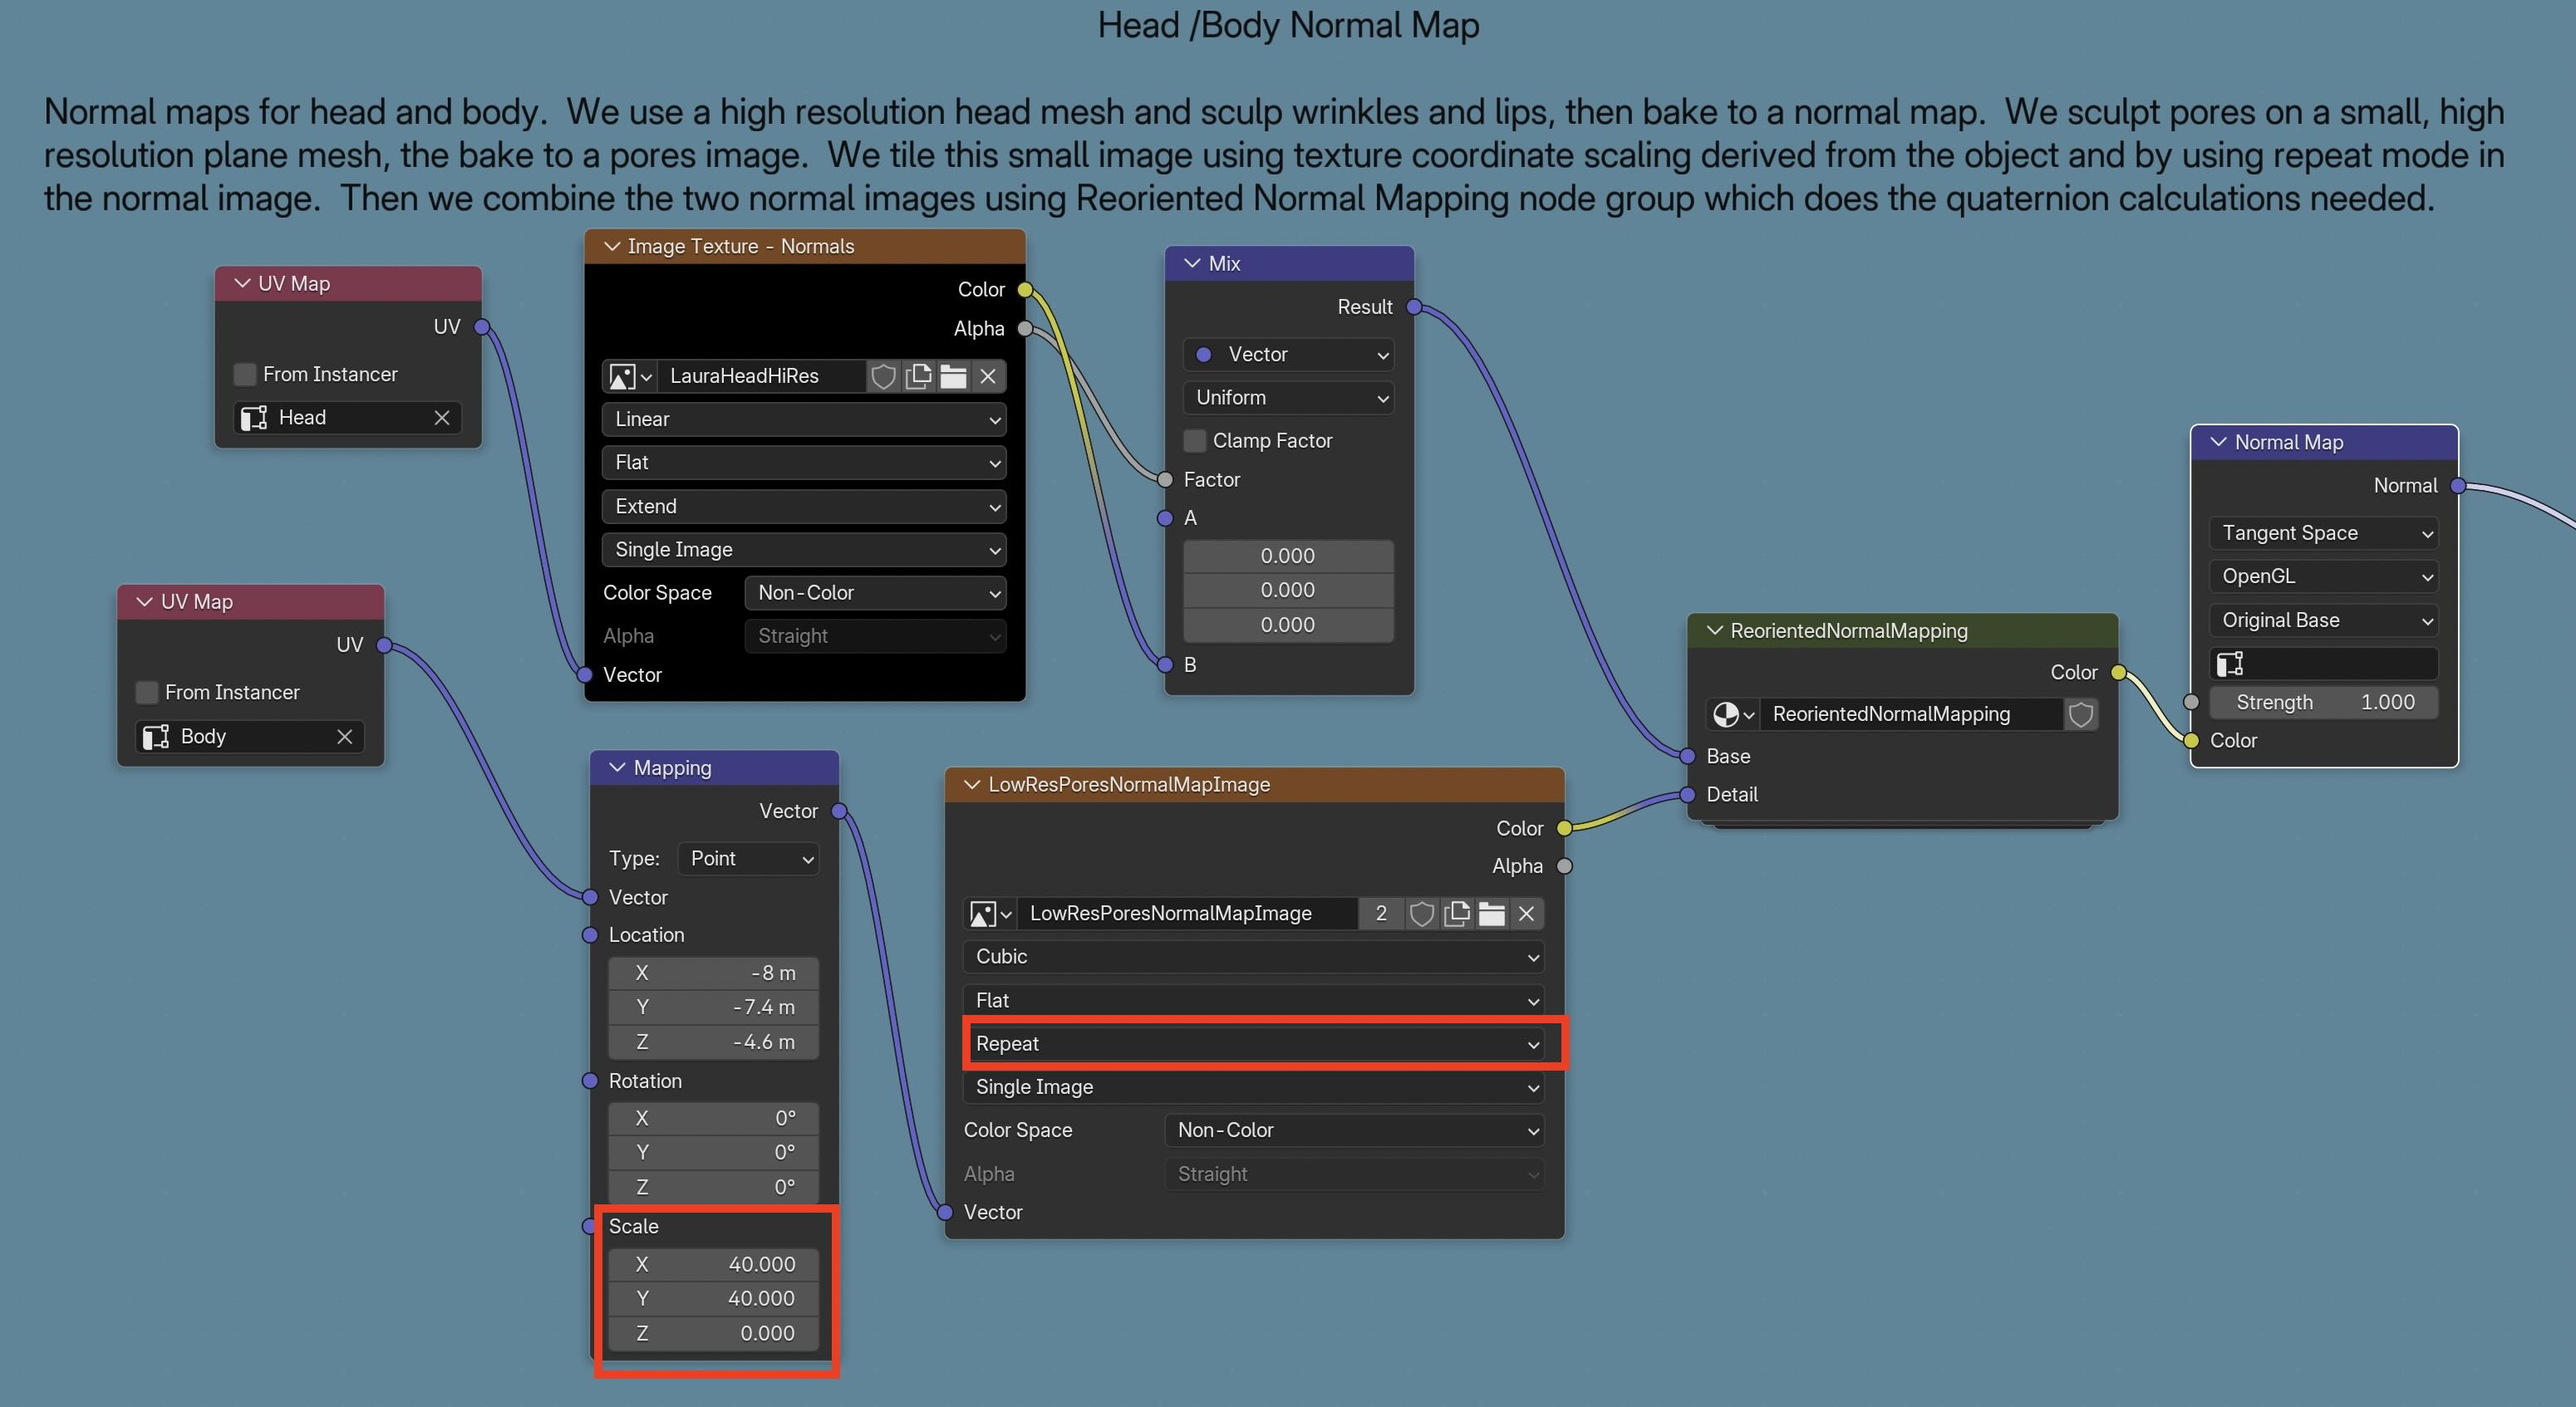
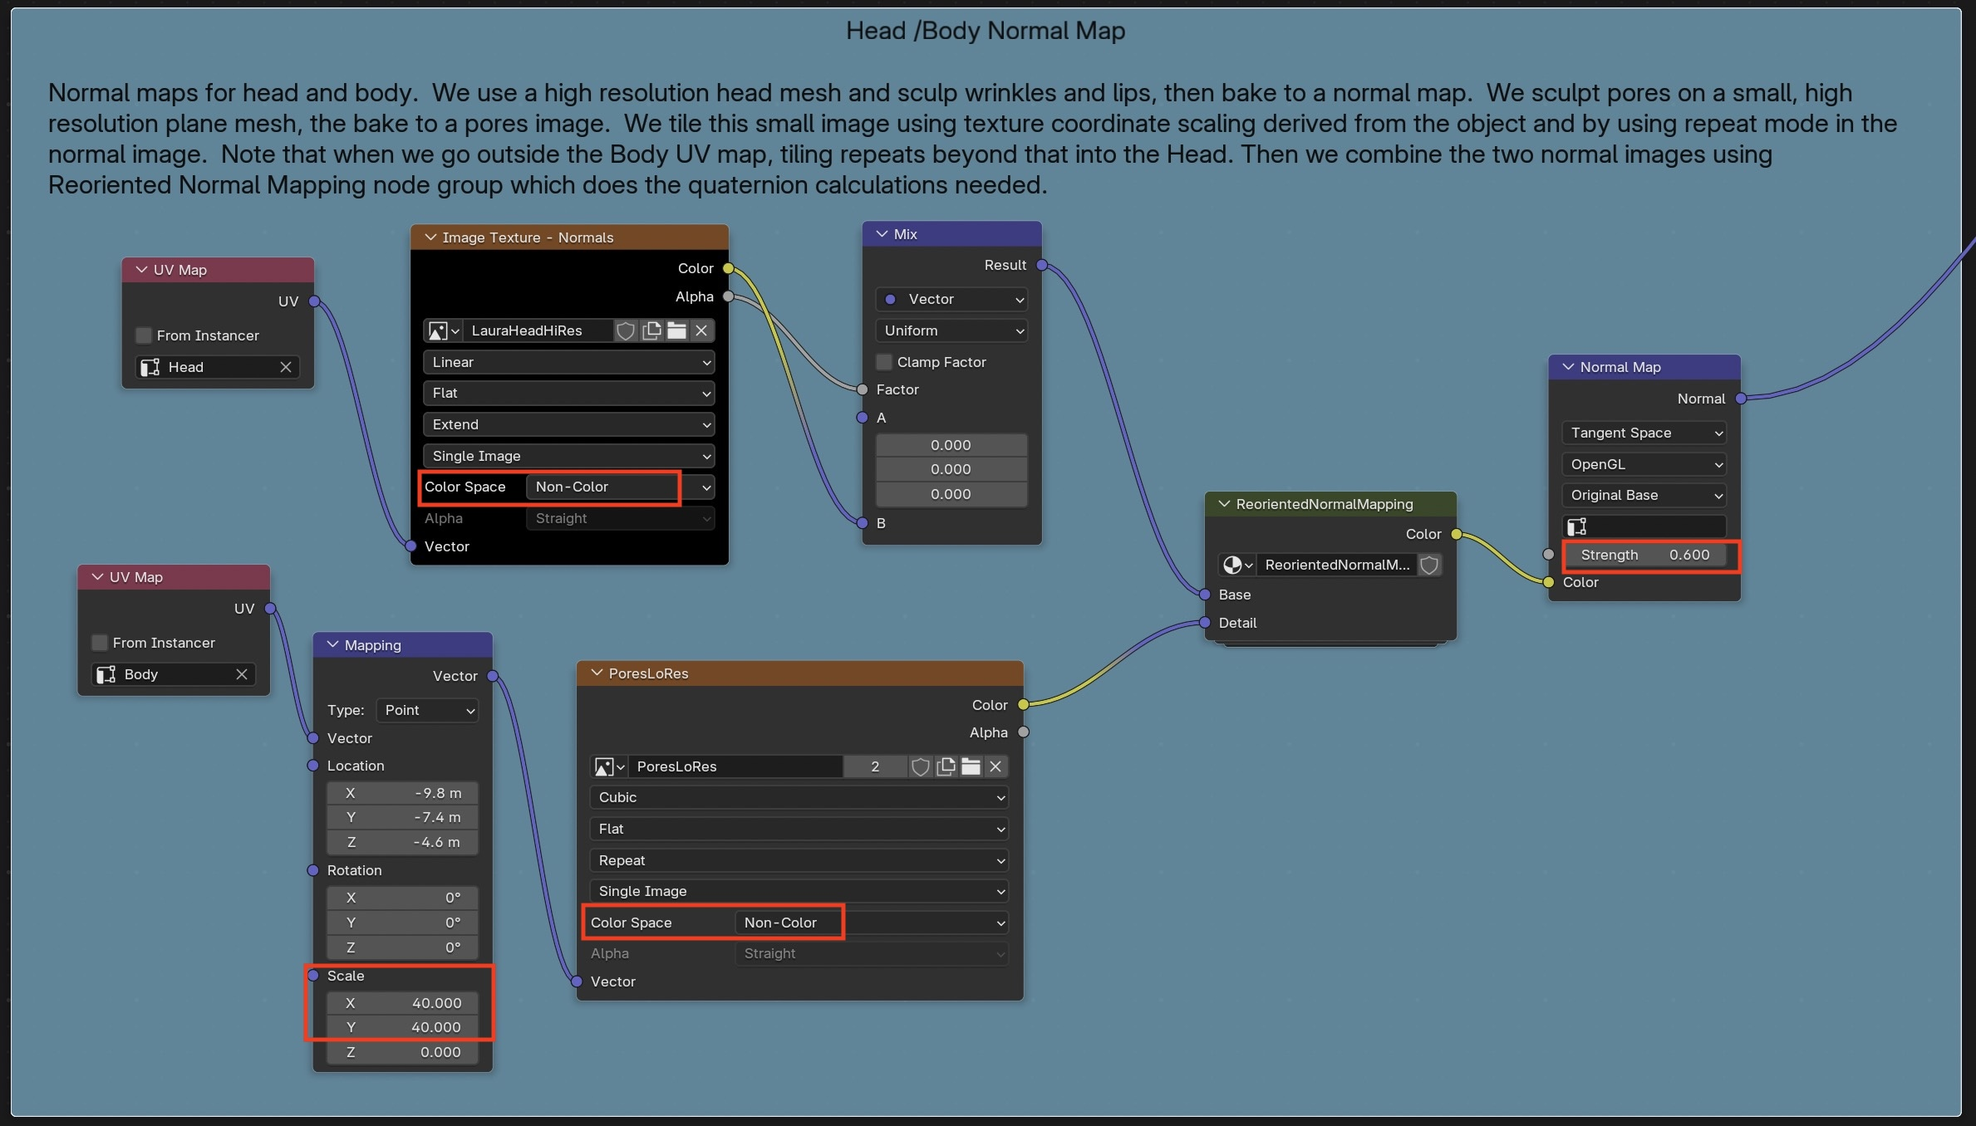
Sculpting and normal mapping for pores in Blender

diff --git a/Art/BlenderWorkedExamples.html b/Art/BlenderWorkedExamples.html
@@ -1951,32 +1951,57 @@
                     Instead we do this:
 
                     <ul>
-                        <li>Create a small mesh plane with high resolution.</li>
-                        <li>Sculpt human skin pores, which are about are about $250\mu \: \text{to} \: 500\mu$, or 0.25mm to 0.5mm diameter, on a plane.  The mesh should be a square 
-                            width = height = 1cm = 100 pixels.  Each pixel will then be 0.1 mm wide;  sufficient for the Nyquist sampling theorm.</li>
-                        <li>Bake to a normal map image.</li>
+                        <li>
+                            Create a small mesh plane with high resolution.
+                            <img class="centeredsmallest" alt="X" src="Images/MeshPlane1cm.jpg">
+                        </li>
+                        <li>
+                            Human skin pores are about are about $250\mu \: \text{to} \: 500\mu$, or 0.25mm to 0.5mm diameter, on a plane.  The mesh should be a square 
+                            width = height = 1cm = 100 pixels.  Each pixel will then be 0.1 mm wide;  sufficient for the Nyquist sampling theorm.  Go into 
+                            <em class="hotkey">Edit Mode &#10148; Control -E &#10148; subdivide &#10148; Number of cuts = 100</em>
+                            <img class="centeredsmallest" alt="X" src="Images/SubdivideMesh_EditMode_CtrlE_NumberOfCuts100.jpg">
+                            <img class="centeredsmallest" alt="X" src="Images/SubdividedMesh.jpg">
+                        </li>
+                        <li>
+                        Sculpt pores on the high res mesh (dark blue).  The low res target mesh for normal map baking is the top light blue plane, which has no subdivisions.       
+                        You can measure the distance between hires and lowres meshes to set your bake settings for extrusion and max ray distance.
+                        </li>
+                        <li>
+                            <img class="centeredsmaller" alt="X" src="Images/SculptedHiResPoresOntoLowResMesh.jpg">
+                            Here are my brush settings.
+                            Use xy tiling and tile offset settings to make left/right and top/bottom edges periodic to avoid seams.  
+                            Tinker with the noise texture settings.  I do two low strength brush passes for better uniformity.
+                            <img class="centeredsmallest" alt="X" src="Images/SculpingNoiseBrush.jpg">
+                            <img class="centeredsmallest" alt="X" src="Images/SculptingNoiseBrushSettings1.jpg">
+                            <img class="centeredsmallest" alt="X" src="Images/SculptingNoiseBrushSettings2.jpg">
+                        </li>
+                        <li>
+                            Bake to a normal map image.
+                            <img class="centeredsmallest" alt="X" src="Images/BakingPores.jpg">
+                            <img class="centeredsmallest" alt="X" src="Images/PoresNormalImage.jpg">
+                        </li>
                         <li>Use generated coordinates mapping and image repeating to tile copies of this small normal image over the entire object.  Make sure pores are
                             positioned randomly enough at the edges, or periodically continued across the x and y directions, so tiling won't show seams.
                             We use a body UV map.  Since we tile the image, the UV coordinates extend beyond the body into the head.
                         </li>
                         <li>
-                        Combine the skin pore normal map with the hi res head normal map for the head.  To combine we use the
-                        <a href="#RNM">Reoriented Normal Mapping</a>
-                        technique.
+                            Combine the skin pore normal map with the hi res head normal map for the head.  To combine we use the
+                            <a href="#RNM">Reoriented Normal Mapping</a> technique.
                         </li>
                         <li>
-                        Apply the skin pore normal map over the entire body.
+                            Apply the skin pore normal map over the entire body.
                         </li>
                     </ul>
                     </p>
 
                     <p>
-                    Here is the normal map node group: 
-                    <img class="centered" alt="X" src="Images/SkinPoresCombined.jpeg">
+                    Here is the normal map node group.  
+                    <img class="centered" alt="X" src="Images/SkinPoresCombined.jpeg"
                     </p>
 
                     <p>
-                    The skin pores are scaled until they measure the correct diameter.
+                    Skin pores are scaled until they measure the correct diameter on the object using the measuring tool.
+                    Adjust the Normal Map strength just barely enough to see pores.
                     <img class="centeredsmaller" alt="X" src="Images/SkinPoresNormalRenderEevee.jpg">
                     </p>
 
@@ -4497,7 +4522,7 @@ Select the <em class="hotkey">density brush</em>,
                     Copyright &copy; 1986-2026 by Sean Erik O'Connor.
                     All Rights Reserved.
                     &nbsp;&nbsp;&nbsp;
-                    last updated 10 Aug 26.
+                    last updated 05 Sep 26.
                 </p>
             </footer>
         </div> <!-- wrapper -->
